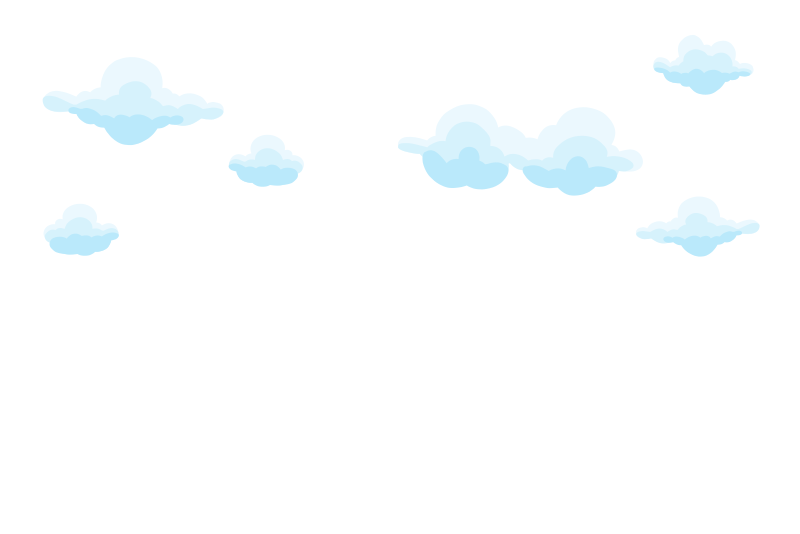
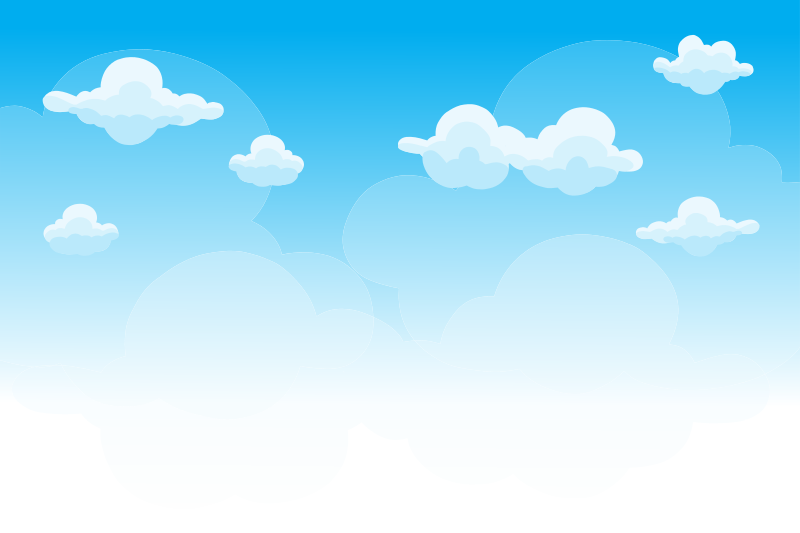
back to original svg

diff --git a/client/app/shared/banner/banner.component.css b/client/app/shared/banner/banner.component.css
@@ -17,21 +17,21 @@ h2 {
   display: none;
 }
 
-.sky {
-  background: url(../../../assets/svg/sky.svg) no-repeat center center fixed;
-  -webkit-background-size: cover;
-  -moz-background-size: cover;
-  -o-background-size: cover;
-  background-size: cover;
-  background-attachment: fixed;
-}
-
 mat-icon {
   width: 300px;
   height: 300px;
   position: absolute;
   top: 70px;
 }
+
+.sky {
+  background: url(../../../assets/svg/sky.svg) no-repeat center center fixed;
+  -webkit-background-size: cover;
+  -moz-background-size: cover;
+  -o-background-size: cover;
+  background-size: cover, 250px;
+}
+
 
 @media screen and (min-width: 425px){
   app-account-selector {
@@ -48,6 +48,10 @@ mat-icon {
 
   .banner {
     height: 300px;
+  }
+
+  .sky {
+    background-size: cover, 250px;
   }
 
   mat-icon {
